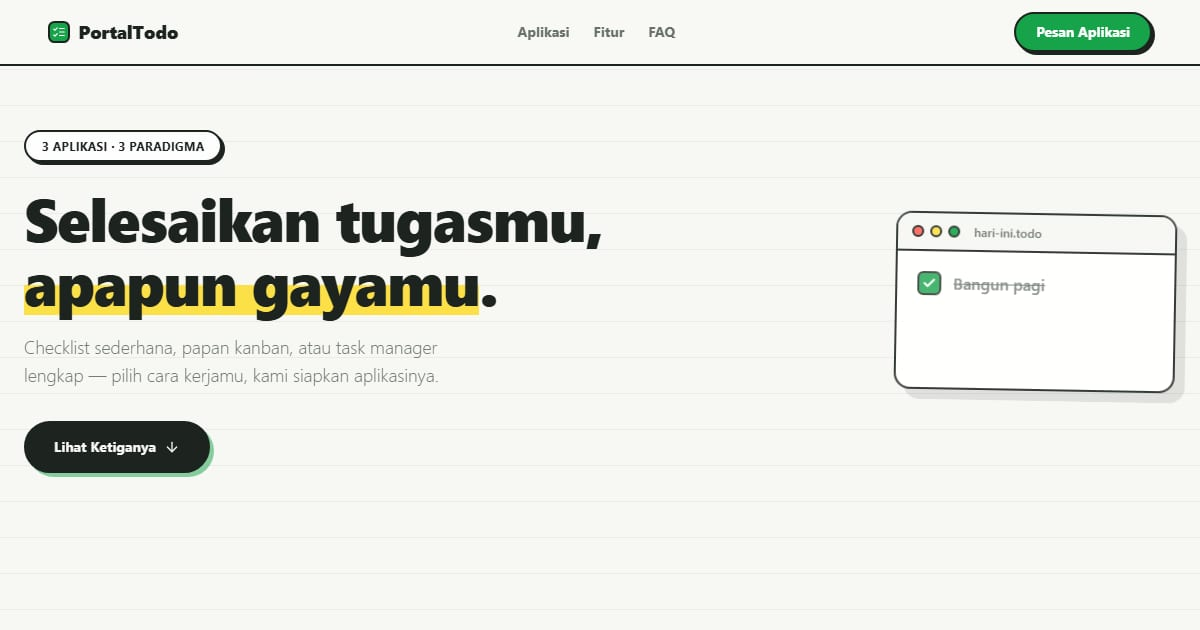
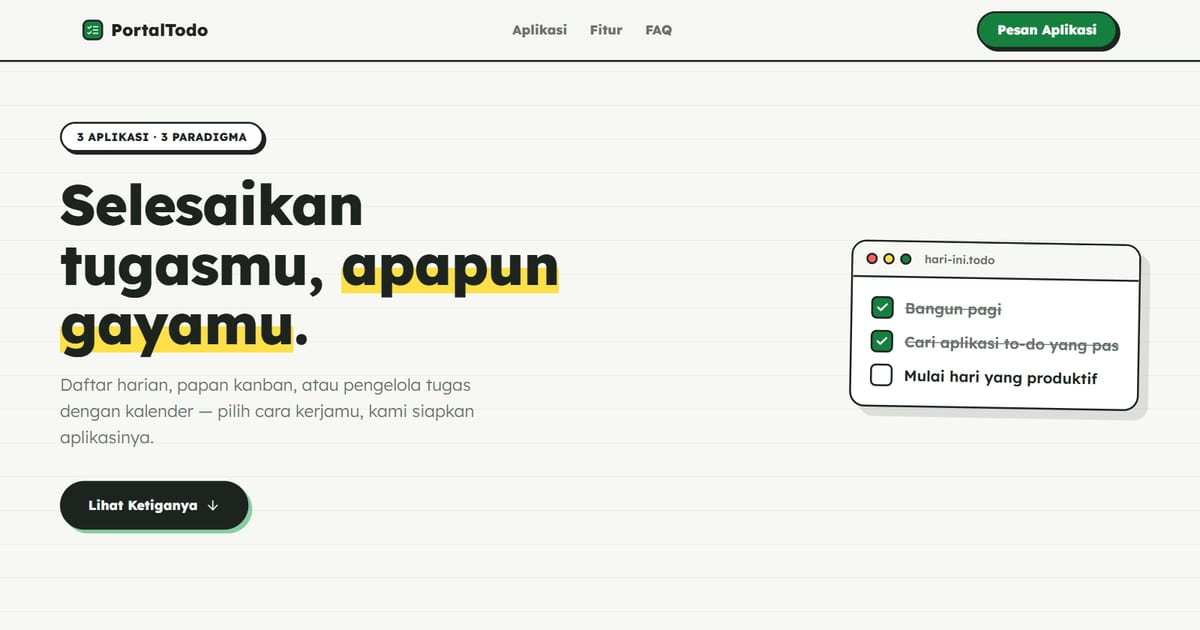
Perbarui katalog: Hari Ini, Lajur, Tuntas dengan halaman dalam
- Nama, deskripsi, dan fitur mengikuti isi baru ketiga aplikasi;
  kanban kini bernama Lajur (bukan TaskFlow)
- Pratinjau diambil ulang (WebP), PNG lama dihapus; tautan "coba"
  ke halaman dalam tiap aplikasi
- Hijau teks digelapkan (#15803d) + varian terang di latar gelap;
  font var dipindah ke <html>

diff --git a/app/page.js b/app/page.js
@@ -15,17 +15,17 @@ const HERO_TODO = [
 
 const CATATAN = [
   { icon: Save, title: 'Tersimpan otomatis', desc: 'Tugas tersimpan di perangkatmu — tutup browser, semuanya masih ada.' },
-  { icon: Moon, title: 'Mode gelap', desc: 'Nyaman dipandang saat lembur — semua aplikasi punya dark mode premium.' },
+  { icon: Moon, title: 'Mode gelap', desc: 'Ketiganya punya mode terang dan gelap, dan keduanya lolos uji kontras WCAG AA.' },
   { icon: Zap, title: 'Ringan & instan', desc: 'Tanpa loading berat; ketik, enter, beres. Fokusmu tidak terganggu.' },
-  { icon: Smartphone, title: 'Di semua layar', desc: 'Desktop untuk kerja, ponsel untuk cek cepat — tampilan menyesuaikan.' },
-  { icon: PencilRuler, title: 'Bisa dikustom', desc: 'Warna, label, dan kategori bisa disesuaikan dengan alur kerjamu.' },
+  { icon: Smartphone, title: 'Di semua layar', desc: 'Tombol aksi tetap terlihat di layar sentuh; papan kanban bisa diseret dengan menahan kartu.' },
+  { icon: PencilRuler, title: 'Data contoh yang hidup', desc: 'Kunjungan pertama diisi tugas contoh bertanggal relatif — tidak pernah basi, langsung terasa dipakai.' },
   { icon: Package, title: 'Milikmu penuh', desc: 'Source code diserahkan — pasang di domainmu, tanpa langganan.' },
 ];
 
 const TANYA = [
   { q: 'Aplikasi ini untuk pribadi atau tim?', a: 'Ketiganya dirancang untuk produktivitas pribadi dan tim kecil. Untuk kolaborasi real-time multi-user, kami bisa kembangkan versi custom dengan backend — tanyakan saja.' },
   { q: 'Apakah data tugas saya aman?', a: 'Data tersimpan lokal di perangkatmu (localStorage) — tidak dikirim ke server mana pun. Privasimu utuh. Versi dengan sinkronisasi cloud tersedia sebagai pengembangan custom.' },
-  { q: 'Bedanya ketiga aplikasi ini apa?', a: 'Paradigmanya: Hari Ini untuk checklist harian yang fokus; Kanban untuk alur kerja bertahap (to-do → doing → done); Task Manager untuk yang butuh prioritas, tenggat, label, dan statistik.' },
+  { q: 'Bedanya ketiga aplikasi ini apa?', a: 'Paradigmanya: Hari Ini untuk daftar harian yang fokus; Lajur untuk alur kerja bertahap dengan batas kerja paralel; Tuntas untuk yang butuh prioritas, tenggat, label, dan kalender.' },
   { q: 'Bisakah dijadikan aplikasi internal perusahaan?', a: 'Bisa. Kami sering menyesuaikan template ini menjadi tools internal: menambah login, database, dan laporan. Mulai dari template berarti lebih cepat dan hemat.' },
 ];
 
@@ -61,7 +61,7 @@ export default function PortalTodo() {
               Selesaikan tugasmu, <span className="stabilo">apapun gayamu</span>.
             </h1>
             <p className="mt-5 max-w-md text-lg font-light text-mutedtd">
-              Checklist sederhana, papan kanban, atau task manager lengkap — pilih cara kerjamu, kami siapkan aplikasinya.
+              Daftar harian, papan kanban, atau pengelola tugas dengan kalender — pilih cara kerjamu, kami siapkan aplikasinya.
             </p>
             <a href="#koleksi" className="mt-8 inline-flex items-center gap-2 rounded-full border-[2.5px] border-inktd bg-inktd px-7 py-3.5 font-display text-sm font-bold text-papertd shadow-[4px_4px_0_rgba(22,163,74,0.5)] transition hover:translate-y-0.5">
               Lihat Ketiganya <ArrowDown size={16} />
@@ -103,15 +103,15 @@ export default function PortalTodo() {
               className={`grid items-center gap-8 md:grid-cols-2 ${i % 2 ? 'md:[&>*:first-child]:order-2' : ''}`}
             >
               {/* Window preview */}
-              <a href={t.url} className="window group block" aria-label={`Demo ${t.name}`}>
+              <a href={t.url} className="window group block" aria-label={`Buka demo ${t.name}`}>
                 <div className="window-bar">
                   <span className="h-3 w-3 rounded-full border-2 border-inktd bg-[#ff5f57]" />
                   <span className="h-3 w-3 rounded-full border-2 border-inktd bg-stabilo" />
                   <span className="h-3 w-3 rounded-full border-2 border-inktd bg-ceklis" />
-                  <span className="ml-2 text-xs font-semibold text-mutedtd">{t.name.toLowerCase().replace(/\s/g, '-')}.app</span>
+                  <span className="ml-2 text-xs font-semibold text-mutedtd">{t.berkas}.app</span>
                 </div>
                 <div className="relative aspect-[16/10] overflow-hidden">
-                  <Image src={t.image} alt={`Preview ${t.name}`} fill sizes="(max-width:768px) 100vw, 50vw" className="object-cover object-top transition duration-500 group-hover:scale-[1.02]" priority={i === 0} />
+                  <Image src={t.image} alt="" fill sizes="(max-width:768px) 100vw, 50vw" className="object-cover object-top transition duration-500 group-hover:scale-[1.02]" priority={i === 0} />
                 </div>
               </a>
               {/* Info */}
@@ -125,6 +125,11 @@ export default function PortalTodo() {
                     <li key={f} className="flex items-start gap-3 text-sm font-semibold">
                       <span className="cek mt-0.5 !h-5 !w-5 shrink-0"><Check size={11} strokeWidth={4} /></span> {f}
                     </li>
+                  ))}
+                </ul>
+                <ul className="mt-5 flex flex-wrap gap-2" aria-label={`Halaman ${t.name}`}>
+                  {t.halaman.map(([href, label]) => (
+                    <li key={href}><a href={t.url + href} className="inline-flex items-center gap-1 rounded-full border-[2px] border-inktd bg-white px-3 py-1 text-xs font-bold transition hover:bg-stabilo">{label} <ArrowUpRight size={12} aria-hidden="true" /></a></li>
                   ))}
                 </ul>
                 <a href={WA} target="_blank" rel="noopener noreferrer" className="mt-6 inline-flex items-center gap-1.5 font-display text-sm font-bold text-ceklis underline-offset-4 hover:underline">
@@ -174,7 +179,7 @@ export default function PortalTodo() {
               const open = buka === i;
               return (
                 <div key={t.q} className={`rounded-2xl border-[2.5px] border-inktd bg-white transition ${open ? 'shadow-[5px_5px_0_rgba(22,163,74,0.5)]' : 'shadow-[3px_3px_0_var(--color-inktd)]'}`}>
-                  <button onClick={() => setBuka(open ? -1 : i)} aria-expanded={open} className="flex w-full items-center justify-between gap-4 px-6 py-4 text-left">
+                  <button type="button" onClick={() => setBuka(open ? -1 : i)} aria-expanded={open} className="flex w-full items-center justify-between gap-4 px-6 py-4 text-left">
                     <span className="flex items-center gap-3 font-display text-base font-extrabold leading-snug">
                       <span className={`grid h-6 w-6 shrink-0 place-items-center rounded-md border-[2.5px] border-inktd ${open ? 'bg-ceklis text-white' : 'bg-white'}`}>
                         {open && <Check size={13} strokeWidth={3.5} />}
@@ -199,9 +204,9 @@ export default function PortalTodo() {
       <section className="border-t-[2.5px] border-inktd bg-inktd px-4 py-16 text-center text-papertd sm:px-6">
         <motion.div initial={{ opacity: 0, y: 18 }} whileInView={{ opacity: 1, y: 0 }} viewport={{ once: true }} transition={{ duration: 0.5 }} className="mx-auto max-w-xl">
           <p className="font-display text-2xl font-extrabold leading-snug md:text-4xl">
-            <span className="text-ceklis">✓</span> Pilih gaya &nbsp; <span className="text-ceklis">✓</span> Chat kami &nbsp; <span className="text-stabilo">☐</span> Mulai produktif
+            <span className="text-ceklis-terang">✓</span> Pilih gaya &nbsp; <span className="text-ceklis-terang">✓</span> Chat kami &nbsp; <span className="text-stabilo">☐</span> Mulai produktif
           </p>
-          <p className="mt-4 text-papertd/60">Satu langkah lagi. Centang sendiri yang terakhir.</p>
+          <p className="mt-4 text-papertd/75">Satu langkah lagi. Centang sendiri yang terakhir.</p>
           <a href={WA} target="_blank" rel="noopener noreferrer" className="mt-8 inline-flex items-center gap-2 rounded-full bg-ceklis px-8 py-4 font-display text-sm font-bold text-white transition hover:scale-[1.03] active:scale-95">
             <MessageCircle size={17} /> Chat WhatsApp
           </a>
@@ -214,10 +219,10 @@ export default function PortalTodo() {
             <p className="flex items-center justify-center gap-2 font-display text-lg font-extrabold text-papertd sm:justify-start">
               <span className="cek !bg-ceklis"><ListChecks size={13} /></span> PortalTodo
             </p>
-            <p className="mt-2 text-sm leading-relaxed">Tiga cara menaklukkan harimu — checklist, kanban, dan task manager.</p>
+            <p className="mt-2 text-sm leading-relaxed">Tiga cara menaklukkan harimu — Hari Ini, Lajur, dan Tuntas.</p>
           </div>
           <nav aria-label="Tautan footer" className="text-sm">
-            <p className="font-display text-xs font-bold uppercase tracking-widest text-ceklis">Jelajahi</p>
+            <p className="font-display text-xs font-bold uppercase tracking-widest text-ceklis-terang">Jelajahi</p>
             <ul className="mt-3 space-y-2">
               <li><a href="#koleksi" className="transition hover:text-papertd">Tiga Aplikasi</a></li>
               <li><a href="#catatan" className="transition hover:text-papertd">Fitur Bersama</a></li>
@@ -225,14 +230,14 @@ export default function PortalTodo() {
             </ul>
           </nav>
           <div className="text-sm">
-            <p className="font-display text-xs font-bold uppercase tracking-widest text-ceklis">Hubungi</p>
+            <p className="font-display text-xs font-bold uppercase tracking-widest text-ceklis-terang">Hubungi</p>
             <ul className="mt-3 space-y-2">
               <li><a href={WA} target="_blank" rel="noopener noreferrer" className="transition hover:text-papertd">WhatsApp +62 813 3990 8765</a></li>
               <li><a href="https://pintuweb.com" target="_blank" rel="noopener noreferrer" className="transition hover:text-papertd">pintuweb.com</a></li>
             </ul>
           </div>
         </div>
-        <p className="mt-10 border-t border-papertd/10 pt-5 text-center text-xs text-papertd/40">
+        <p className="mt-10 border-t border-papertd/10 pt-5 text-center text-xs text-papertd/70">
           © {new Date().getFullYear()} PortalTodo · bagian dari PintuWeb — centang terakhir milikmu.
         </p>
       </footer>

diff --git a/app/components/templates-data.js b/app/components/templates-data.js
@@ -1,29 +1,36 @@
+// Data 3 aplikasi daftar tugas. `halaman` = halaman dalam yang bisa dicoba langsung.
 export const templates = [
   {
-    name: 'Classic To-Do',
-    tagline: 'Checklist murni, tanpa distraksi',
-    description: 'Untuk kamu yang cuma butuh satu daftar: tulis, centang, selesai. Ringan, cepat, dan menenangkan.',
-    image: '/images/t1.png',
+    name: 'Hari Ini',
+    berkas: 'hari-ini',
+    tagline: 'Satu daftar untuk satu hari',
+    description: 'Yang selesai pindah ke rekap besoknya, yang belum ikut terbawa. Ketik "Telepon klien 14.00 !" dan jam serta prioritasnya langsung terbaca.',
+    image: '/images/todo/hari-ini.webp',
     url: 'https://todo-classic.vercel.app',
-    fitur: ['Tambah & centang tugas dalam sekejap', 'Penyimpanan lokal — data tetap ada', 'Tampilan bersih fokus satu daftar'],
-    cocok: 'daily list & kebiasaan',
+    fitur: ['Jam & prioritas dibaca dari ketikan', 'Tugas belum selesai terbawa ke esok hari', 'Rekap 7 hari dengan streak'],
+    cocok: 'daftar harian & kebiasaan',
+    halaman: [['/rekap', 'Rekap 7 hari'], ['/panduan', 'Panduan']],
   },
   {
-    name: 'Kanban Board',
-    tagline: 'Geser kartu, lihat alur kerja',
-    description: 'Visualisasikan pekerjaan dalam kolom To-Do → Doing → Done. Puas rasanya menggeser kartu ke kanan.',
-    image: '/images/t2.png',
+    name: 'Lajur',
+    berkas: 'lajur',
+    tagline: 'Papan kanban dengan batas WIP',
+    description: 'Tiga lajur — Antre, Dikerjakan, Selesai — dengan batas tiga kartu yang dikerjakan sekaligus. Setiap kartu mencatat kapan mulai dan selesai.',
+    image: '/images/todo/lajur.webp',
     url: 'https://todo-kanban-one.vercel.app',
-    fitur: ['Kolom alur kerja drag & drop', 'Label prioritas berwarna', 'Ideal untuk proyek tim & pribadi'],
-    cocok: 'proyek & kolaborasi',
+    fitur: ['Seret kartu — mouse, sentuh, atau papan ketik', 'Checklist, tenggat, dan label di tiap kartu', 'Statistik lead time & cycle time'],
+    cocok: 'proyek & tim kecil',
+    halaman: [['/statistik', 'Statistik'], ['/arsip', 'Arsip']],
   },
   {
-    name: 'Task Manager',
-    tagline: 'Kendali penuh atas semua tugas',
-    description: 'Deadline, prioritas, kategori, dan progres — semua terukur. Untuk kamu yang serius mengelola waktu.',
-    image: '/images/t3.png',
+    name: 'Tuntas',
+    berkas: 'tuntas',
+    tagline: 'Pengelola tugas dengan kalender',
+    description: 'Prioritas, tenggat yang dibaca relatif ("Besok", "Terlambat 2 hari"), label, dan kalender bulanan — untuk urusan kerja dan rumah sekaligus.',
+    image: '/images/todo/tuntas.webp',
     url: 'https://todo-manager-ivory-seven.vercel.app',
-    fitur: ['Deadline, prioritas & kategori', 'Statistik progres harian', 'Filter & pencarian cepat'],
-    cocok: 'power user & profesional',
+    fitur: ['Ringkasan yang sekaligus menyaring', 'Kalender bulanan per tanggal tenggat', 'Ganti nama label untuk semua tugas'],
+    cocok: 'kerja & urusan rumah',
+    halaman: [['/kalender', 'Kalender'], ['/label', 'Label']],
   },
 ];

diff --git a/app/layout.js b/app/layout.js
@@ -8,7 +8,7 @@ const __jsonld = {"@context":"https://schema.org","@type":"CollectionPage","name
 export const metadata = {
   metadataBase: new URL("https://portal-todo.vercel.app"),
   title: "PortalTodo — Tiga Cara Menaklukkan Harimu",
-  description: "PortalTodo: koleksi 3 aplikasi to-do dengan paradigma berbeda — checklist klasik, papan kanban, dan task manager lengkap.",
+  description: "Tiga aplikasi daftar tugas dengan paradigma berbeda: Hari Ini untuk daftar harian, Lajur untuk papan kanban dengan batas WIP, dan Tuntas untuk tugas dengan kalender.",
   applicationName: "PortalTodo",
   keywords: ["aplikasi to-do", "template produktivitas", "kanban", "task manager"],
   authors: [{ name: "PortalTodo" }],
@@ -21,13 +21,13 @@ export const metadata = {
     url: "https://portal-todo.vercel.app",
     siteName: "PortalTodo",
     title: "PortalTodo — Tiga Cara Menaklukkan Harimu",
-    description: "PortalTodo: koleksi 3 aplikasi to-do dengan paradigma berbeda — checklist klasik, papan kanban, dan task manager lengkap.",
+    description: "Tiga aplikasi daftar tugas dengan paradigma berbeda: Hari Ini untuk daftar harian, Lajur untuk papan kanban dengan batas WIP, dan Tuntas untuk tugas dengan kalender.",
     images: [{ url: "/og.jpg", width: 1200, height: 630, alt: "PortalTodo — Tiga Cara Menaklukkan Harimu" }],
   },
   twitter: {
     card: "summary_large_image",
     title: "PortalTodo — Tiga Cara Menaklukkan Harimu",
-    description: "PortalTodo: koleksi 3 aplikasi to-do dengan paradigma berbeda — checklist klasik, papan kanban, dan task manager lengkap.",
+    description: "Tiga aplikasi daftar tugas dengan paradigma berbeda: Hari Ini untuk daftar harian, Lajur untuk papan kanban dengan batas WIP, dan Tuntas untuk tugas dengan kalender.",
     images: ["/og.jpg"],
   },
   robots: {
@@ -39,8 +39,8 @@ export const metadata = {
 
 export default function RootLayout({ children }) {
   return (
-    <html lang="id">
-      <body className={`${lexend.variable} antialiased`}>
+    <html lang="id" className={lexend.variable}>
+      <body className="antialiased">
         <main>{children}</main>
       <script type="application/ld+json" dangerouslySetInnerHTML={{ __html: JSON.stringify(__jsonld) }} />
         </body>

diff --git a/app/globals.css b/app/globals.css
@@ -6,7 +6,8 @@
 
   --color-papertd: #f7f8f4;
   --color-inktd: #1d2420;
-  --color-ceklis: #16a34a;
+  --color-ceklis: #15803d;
+  --color-ceklis-terang: #4ade80;
   --color-stabilo: #fde047;
   --color-mutedtd: #68716b;
 }

diff --git a/README.md b/README.md
@@ -15,7 +15,7 @@ Katalog aplikasi to-do. Gaya buku catatan: kertas bergaris, kartu to-do hidup di
 ## Varian yang dipamerkan (3)
 
 - [Hari Ini](https://todo-classic.vercel.app)
-- [TaskFlow](https://todo-kanban-one.vercel.app)
+- [Lajur](https://todo-kanban-one.vercel.app)
 - [Tuntas](https://todo-manager-ivory-seven.vercel.app)
 
 ## Halaman
